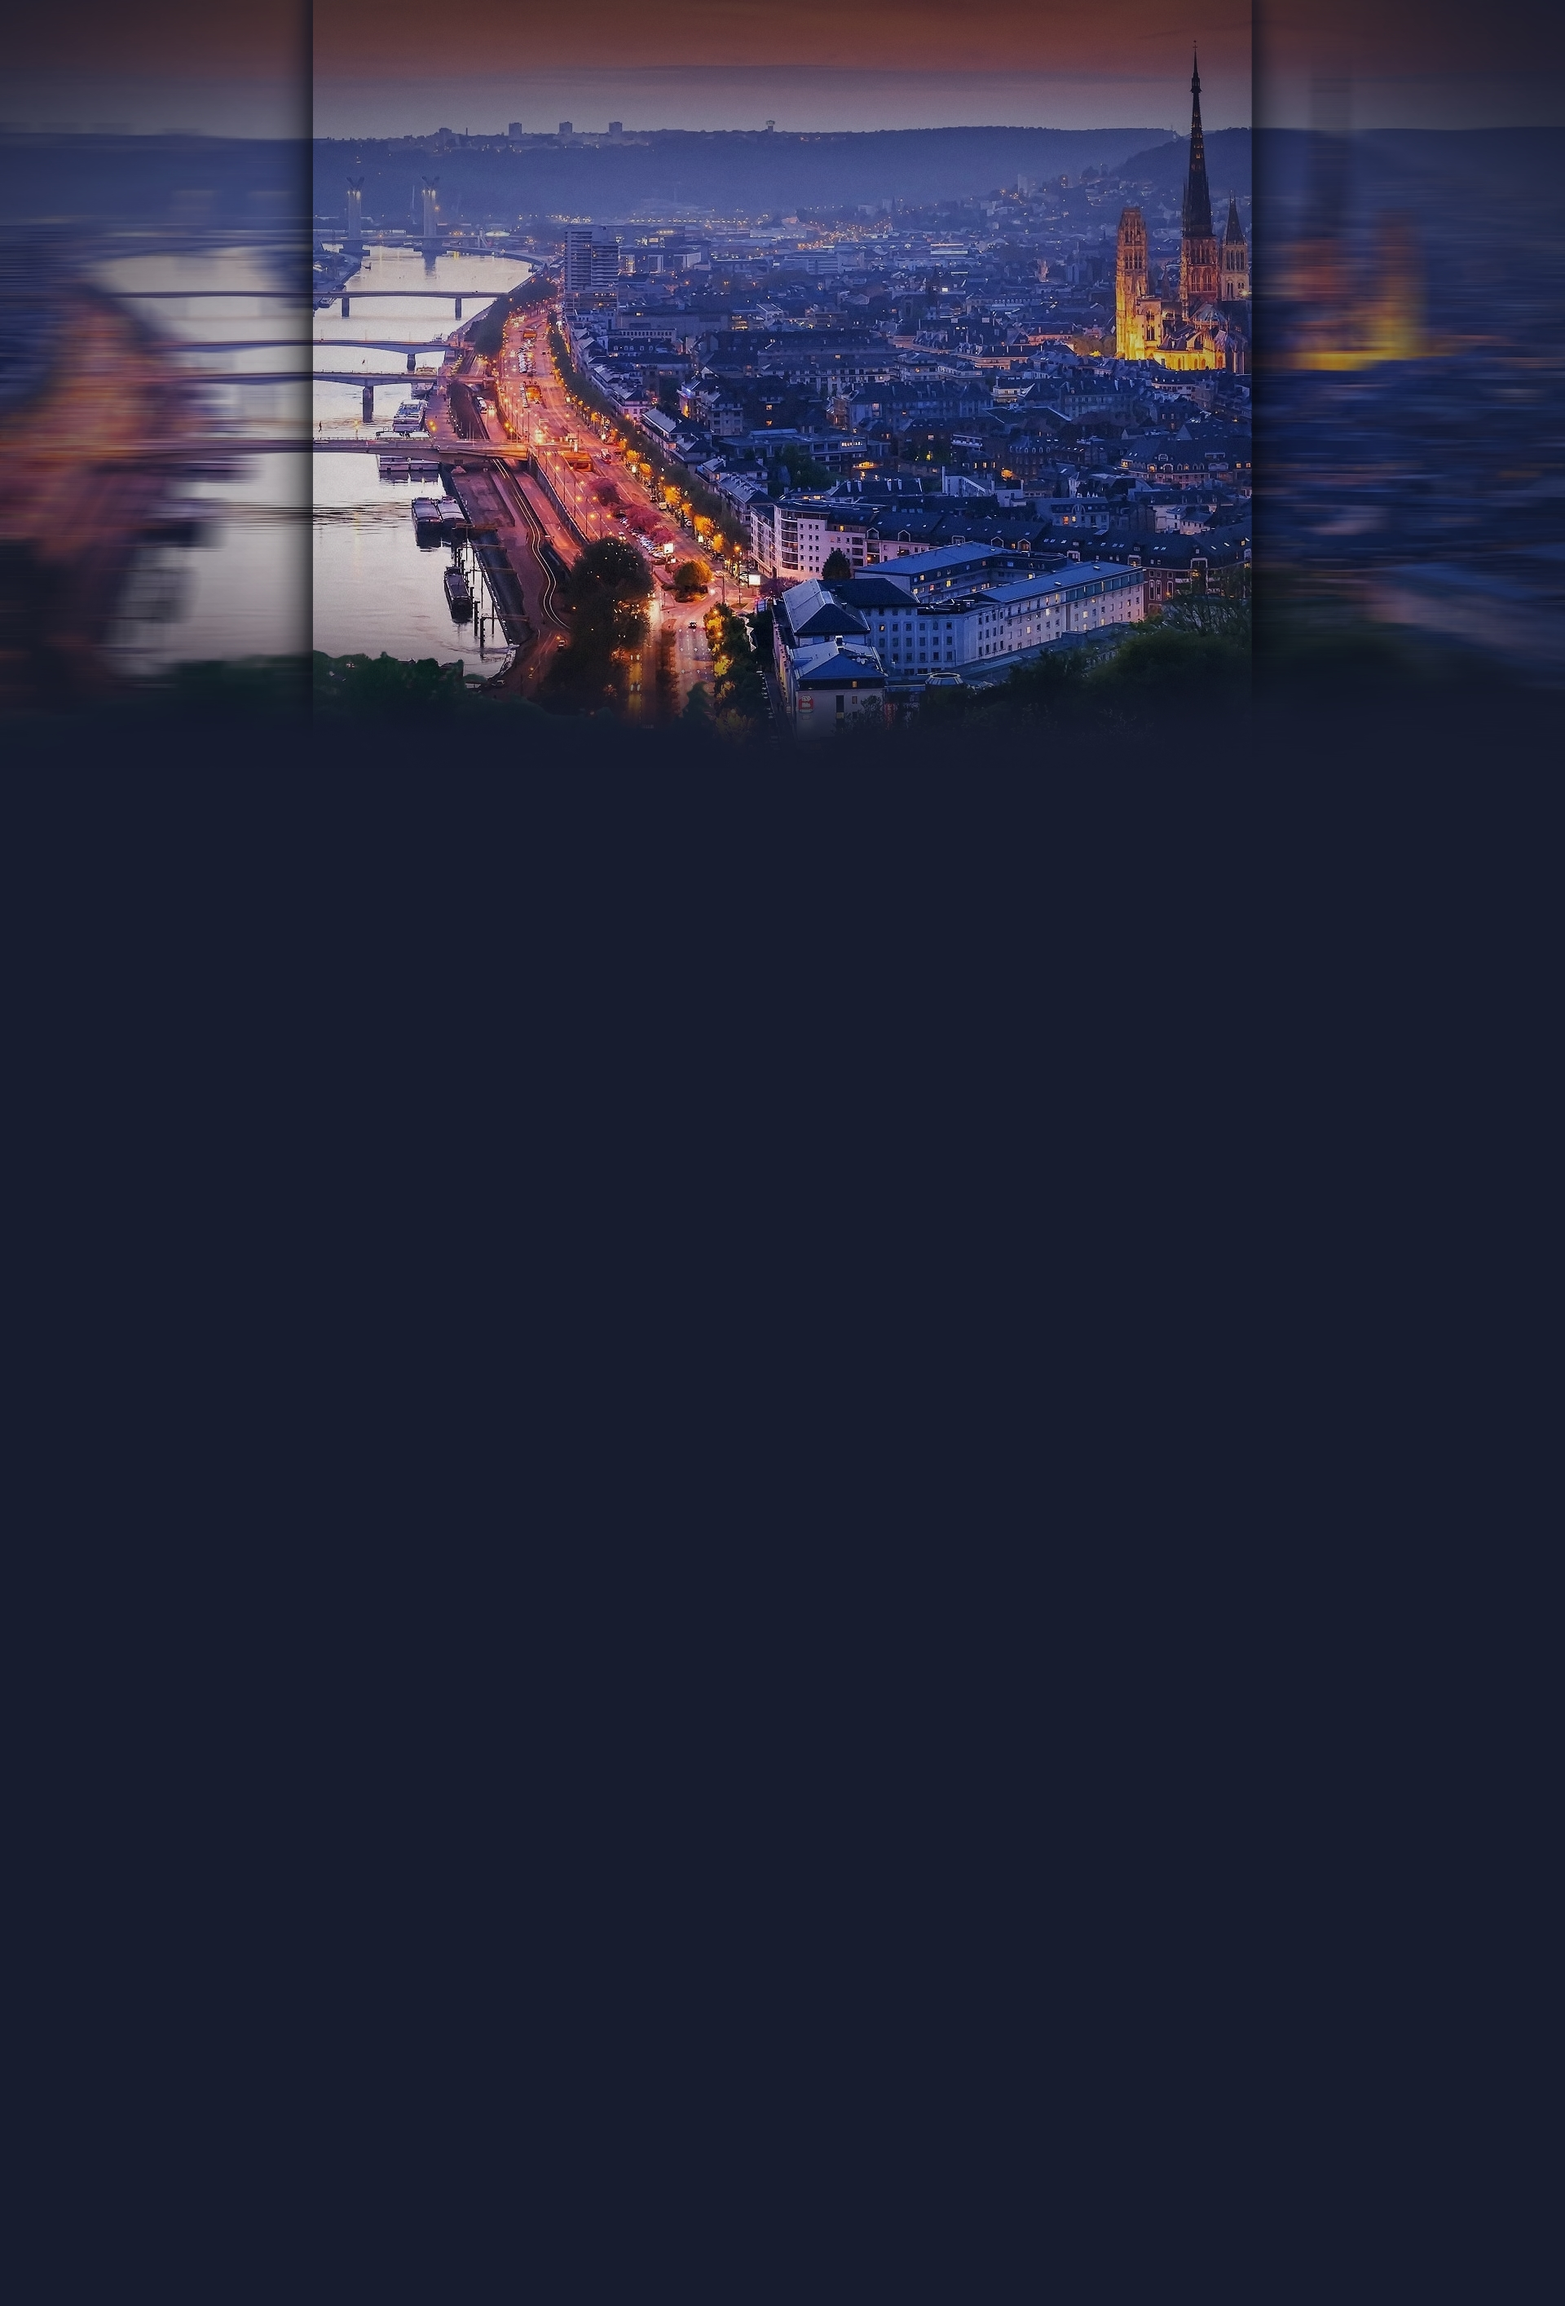
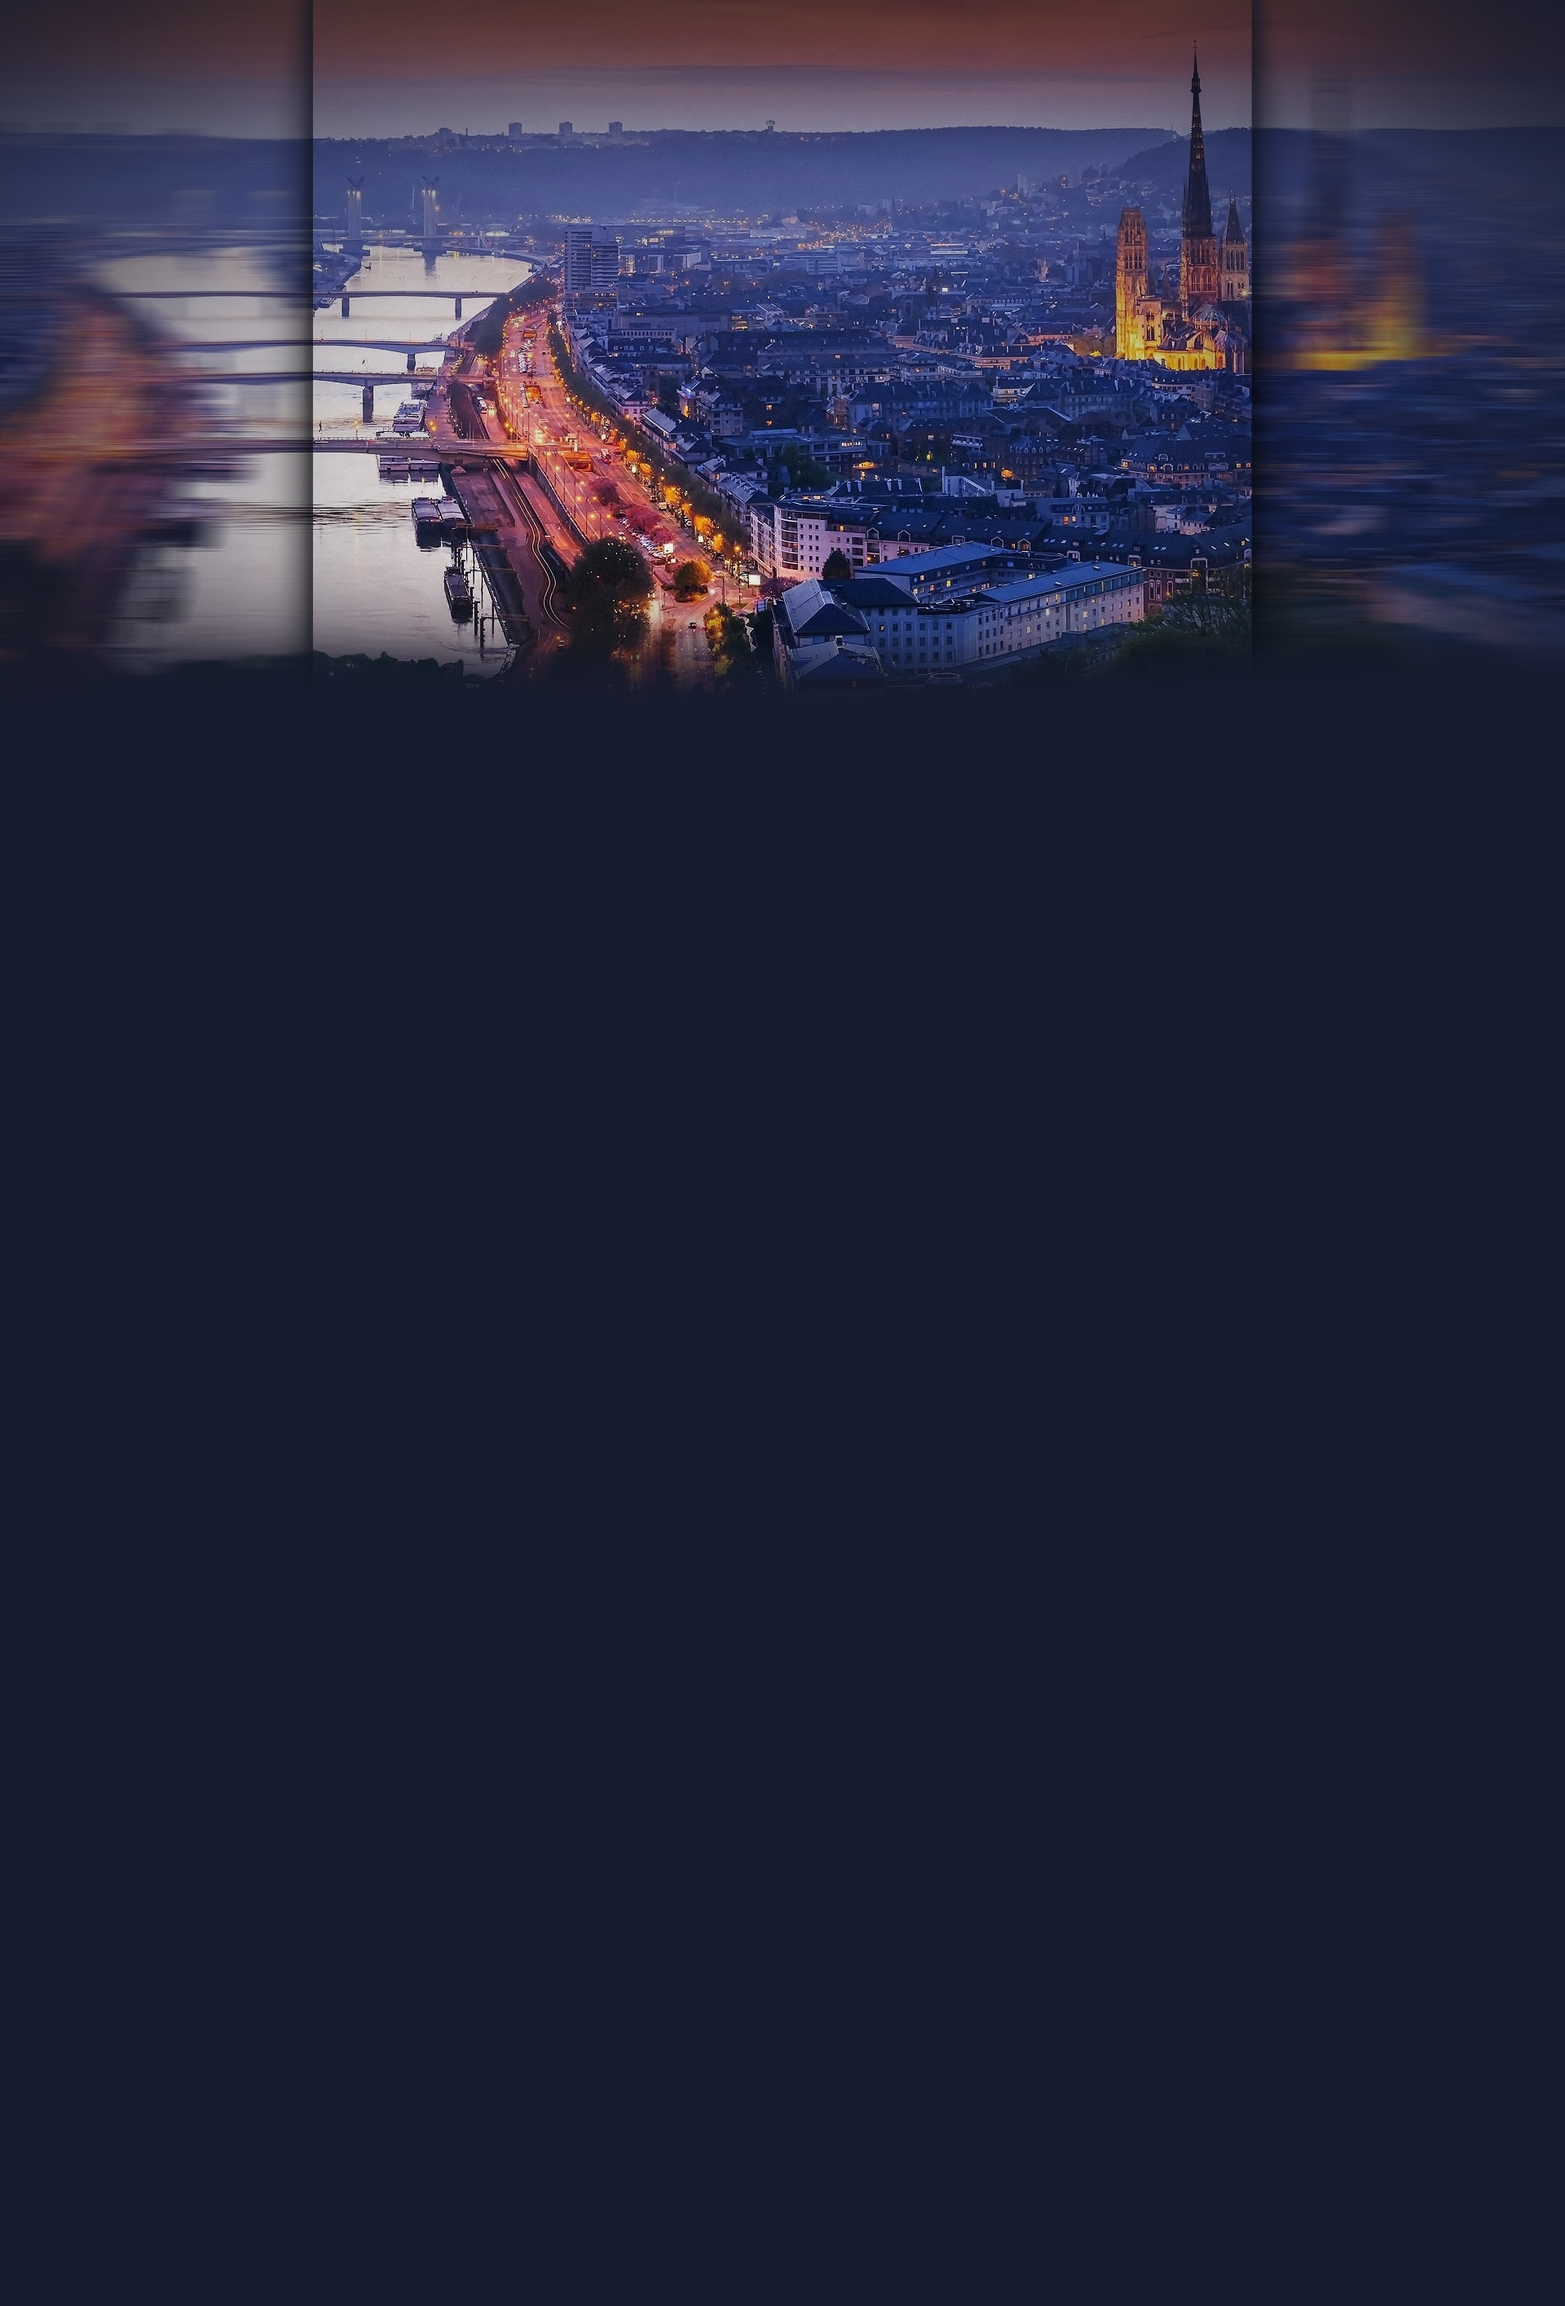
up

Changed region(s): [[0.0625, 0.2489, 0.3438, 0.3111], [0.375, 0.2489, 0.6875, 0.3111]]

diff --git a/web/info/homepage/css/style.css b/web/info/homepage/css/style.css
@@ -21,6 +21,7 @@ h2{
     background-position: top;
     background-repeat: no-repeat;
     text-shadow: 2px 2px #ff0000;
+    padding-bottom: 26%;
     
 }
 
@@ -28,8 +29,7 @@ h2{
 
 .title{
     margin-left: 36%;
-    
-    margin-bottom: 10%;
+    margin-bottom: 18%;
 }
 
 
@@ -45,7 +45,6 @@ h5{
     right: 0;
 }
 .box{
-    padding-bottom: 500px;
     margin-top:5%;
     width: 100%;
     height: 200px;
@@ -58,10 +57,10 @@ body{
     line-height: 1.2;   
     font-family: 'Indie Flower', cursive;
     font-size: x-large;
+    background-color: #171c2f;
 }
 .side2{
    width: 88%;
-   background-color: 171c2f;
    margin-left: 10%;
    padding-top:2%;
    padding-bottom:0%;
